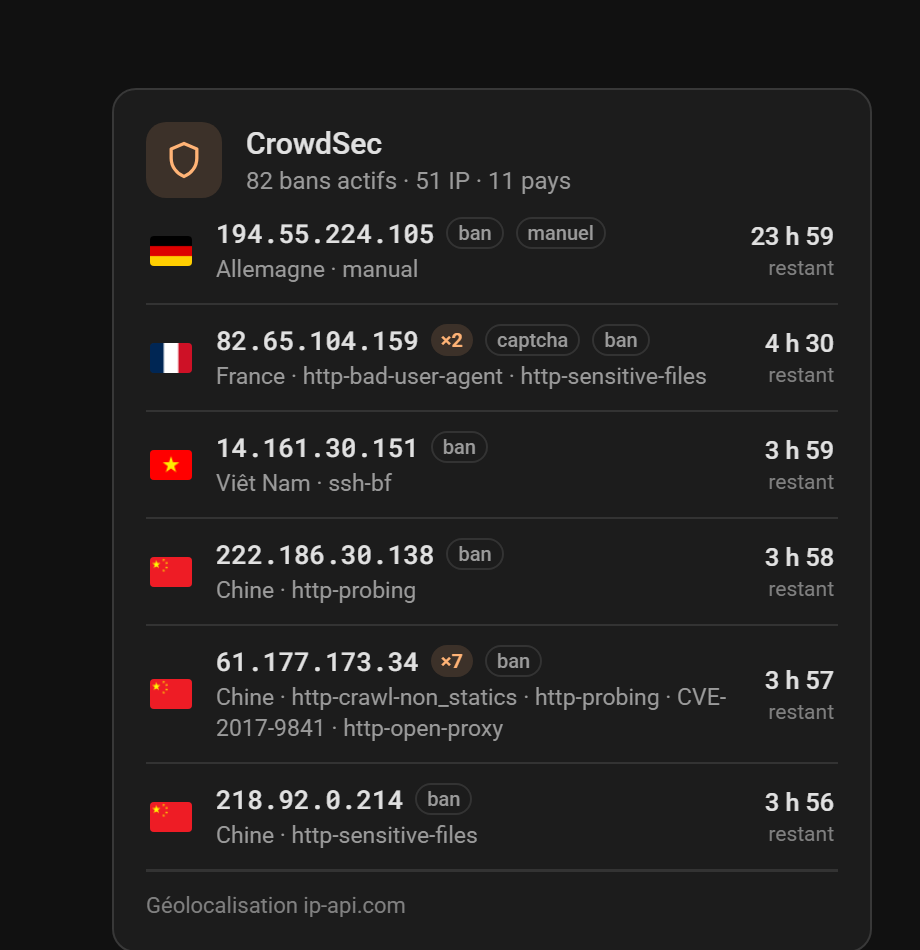
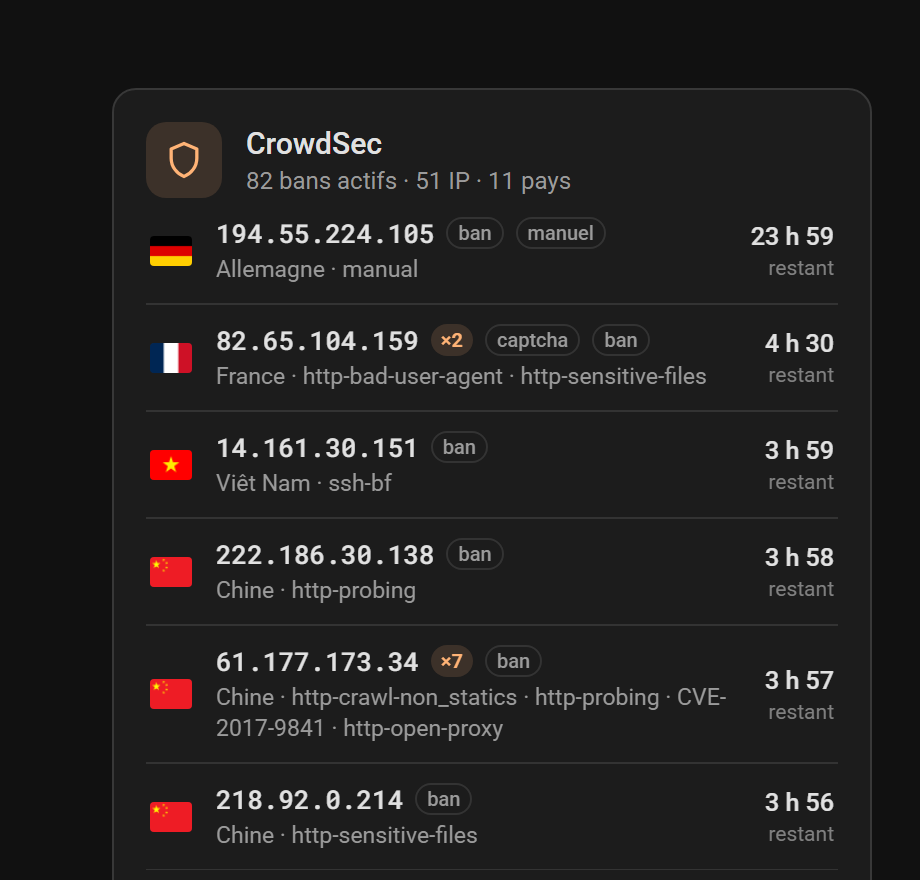
Drop the geolocation credit footer from the card
The ip-api.com credit line (and its separator) took a row of vertical
space on every card for information that belongs in the README, not
on a dashboard. Markup, styles and now-unused strings removed;
captures regenerated with tighter window heights.

diff --git a/custom_components/crowdsec/www/crowdsec-card.js b/custom_components/crowdsec/www/crowdsec-card.js
@@ -30,7 +30,6 @@ const STRINGS = {
     top: "Top pays",
     empty: "Aucun ban actif",
     missing: (e) => `Entité introuvable : ${e}`,
-    source: "Géolocalisation ip-api.com",
     bans: (n) => `${n} ban${n > 1 ? "s" : ""}`,
     filterHint: "Cliquer sur un pays filtre la liste",
     legend20: "20 et +",
@@ -42,7 +41,6 @@ const STRINGS = {
     top: "Top countries",
     empty: "No active ban",
     missing: (e) => `Entity not found: ${e}`,
-    source: "Geolocation by ip-api.com",
     bans: (n) => `${n} ban${n > 1 ? "s" : ""}`,
     filterHint: "Click a country to filter the list",
     legend20: "20+",
@@ -274,9 +272,6 @@ class CrowdsecCard extends HTMLElement {
         .bar div { height: 4px; border-radius: 2px; background: ${steps[3]}; }
         .top-count { font-size: 12.5px; font-weight: 500; color: var(--primary-text-color); flex: 0 0 22px;
           text-align: right; }
-        .footer { display: flex; justify-content: space-between; align-items: center; padding-top: 10px;
-          border-top: 1px solid var(--divider-color); }
-        .footer span { font-size: 11px; color: var(--secondary-text-color); opacity: 0.8; }
       </style>`;
 
     // Only well-formed ISO alpha-2 codes reach the img markup (and its inline
@@ -389,27 +384,21 @@ class CrowdsecCard extends HTMLElement {
         </div>`
       : "";
 
-    const footer = `
-      <div class="footer">
-        <span>${t.source}</span>
-        <span></span>
-      </div>`;
-
     const mapCol = `${mapSvg}${legend}${top}`;
     let body;
     if (wide) {
       body = `<div class="cols">
-          <div class="col-list">${header}${rows}${footer}</div>
+          <div class="col-list">${header}${rows}</div>
           <div class="vsep"></div>
           <div class="col-map">${mapCol}</div>
         </div>`;
     } else if (viewCfg === "map") {
       body = `${header}${mapCol}`;
     } else if (viewCfg === "list") {
-      body = `${header}${rows}${footer}`;
+      body = `${header}${rows}`;
     } else {
       // auto on a narrow column: map stacked above the list.
-      body = `${header}${mapSvg}${legend}${rows}${footer}`;
+      body = `${header}${mapSvg}${legend}${rows}`;
     }
 
     this.shadowRoot.innerHTML = `${style}<ha-card>${body}</ha-card>`;

diff --git a/docs/CAPTURES.md b/docs/CAPTURES.md
@@ -10,16 +10,16 @@ photographie chaque page :
 
 ```bash
 chrome --headless=new --disable-gpu --allow-file-access-from-files \
-  --hide-scrollbars --force-device-scale-factor=2 --window-size=940,515 \
+  --hide-scrollbars --force-device-scale-factor=2 --window-size=940,480 \
   --screenshot=hero-light.png "screenshot-harness.html?page=hero&mode=light"
 ```
 
 | Page | Contenu | Taille fenêtre |
 |---|---|---|
-| `hero` | carte large 2 colonnes (liste + mapmonde) | 940,515 |
-| `views` | `view: auto` (empilée) et `view: map` côte à côte (étroit) | 840,700 |
+| `hero` | carte large 2 colonnes (liste + mapmonde) | 940,480 |
+| `views` | `view: auto` (empilée) et `view: map` côte à côte (étroit) | 840,660 |
 | `palettes` | les 3 palettes du dégradé, `view: map` | 1260,485 |
-| `compact` | `view: list`, liste seule | 460,475 |
+| `compact` | `view: list`, liste seule | 460,440 |
 
 Chaque page existe en `mode=light` et `mode=dark` (`&lang=en` disponible).
 Les fichiers vont dans `images/` sous le nom `<page>-<mode>.png`.
